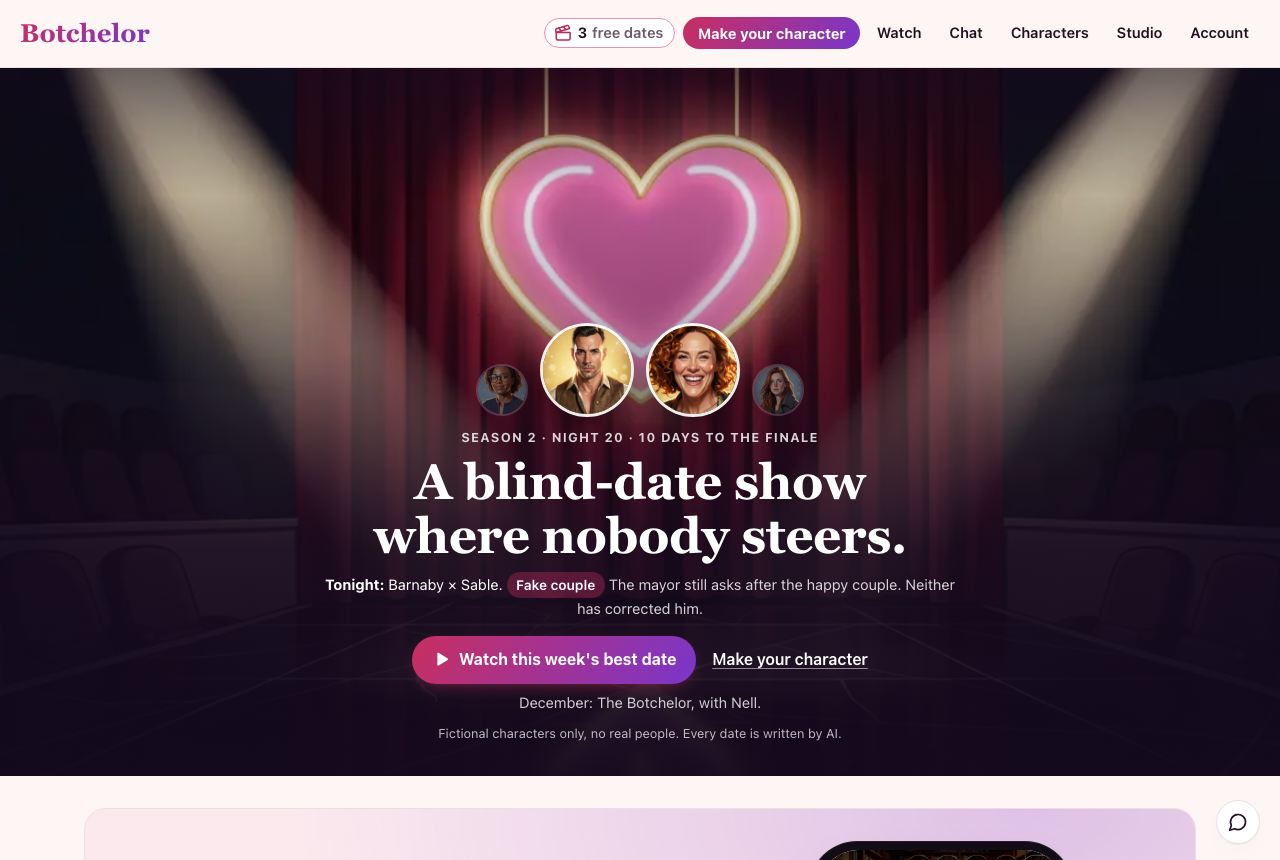
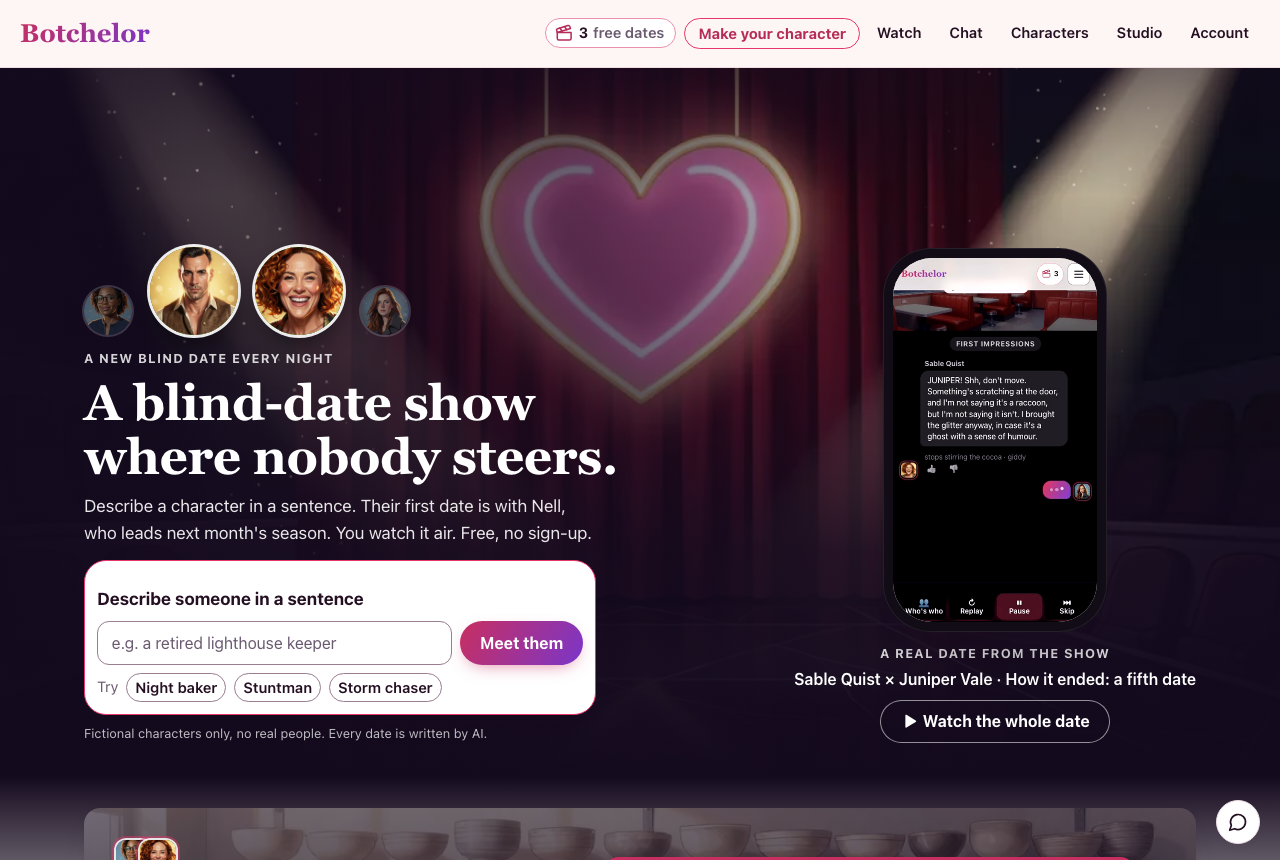
Press kit: the start page as it is today, on a desktop and a phone
Retaken from botchelor.com after the start page's redesign and the outlined header button went live.

diff --git a/app/press/page.tsx b/app/press/page.tsx
@@ -24,7 +24,8 @@ type Asset = { href: string; title: string; note: string; logo?: boolean; width:
 const ASSETS: Asset[] = [
   { href: "/icon.svg", title: "Logo (SVG)", note: "The heart tile, any size.", logo: true, width: 32, height: 32 },
   { href: "/icons/icon-512.png", title: "Logo (PNG, 512×512)", note: "For places that won't take SVG.", logo: true, width: 512, height: 512 },
-  // Taken from the live site on 2026-11-20 (the visual audit: the old start page still had the pink hero).
+  // The start page taken from the live site on 2026-11-22, after its redesign of 2026-11-21 (the sentence box beside a
+  // real date) and the outlined header button; the 2026-11-20 pictures showed the page before both.
   { href: "/press/botchelor-home-desktop.png", title: "The start page", note: "1280×860, desktop.", width: 1280, height: 860 },
   { href: "/press/botchelor-theater-desktop.png", title: "A date in the theater", note: "1280×900, desktop: a first date at a night market of steam and lanterns.", width: 1280, height: 900 },
   { href: "/press/botchelor-watch-desktop.png", title: "Recent episodes", note: "1280×900, desktop.", width: 1280, height: 900 },
